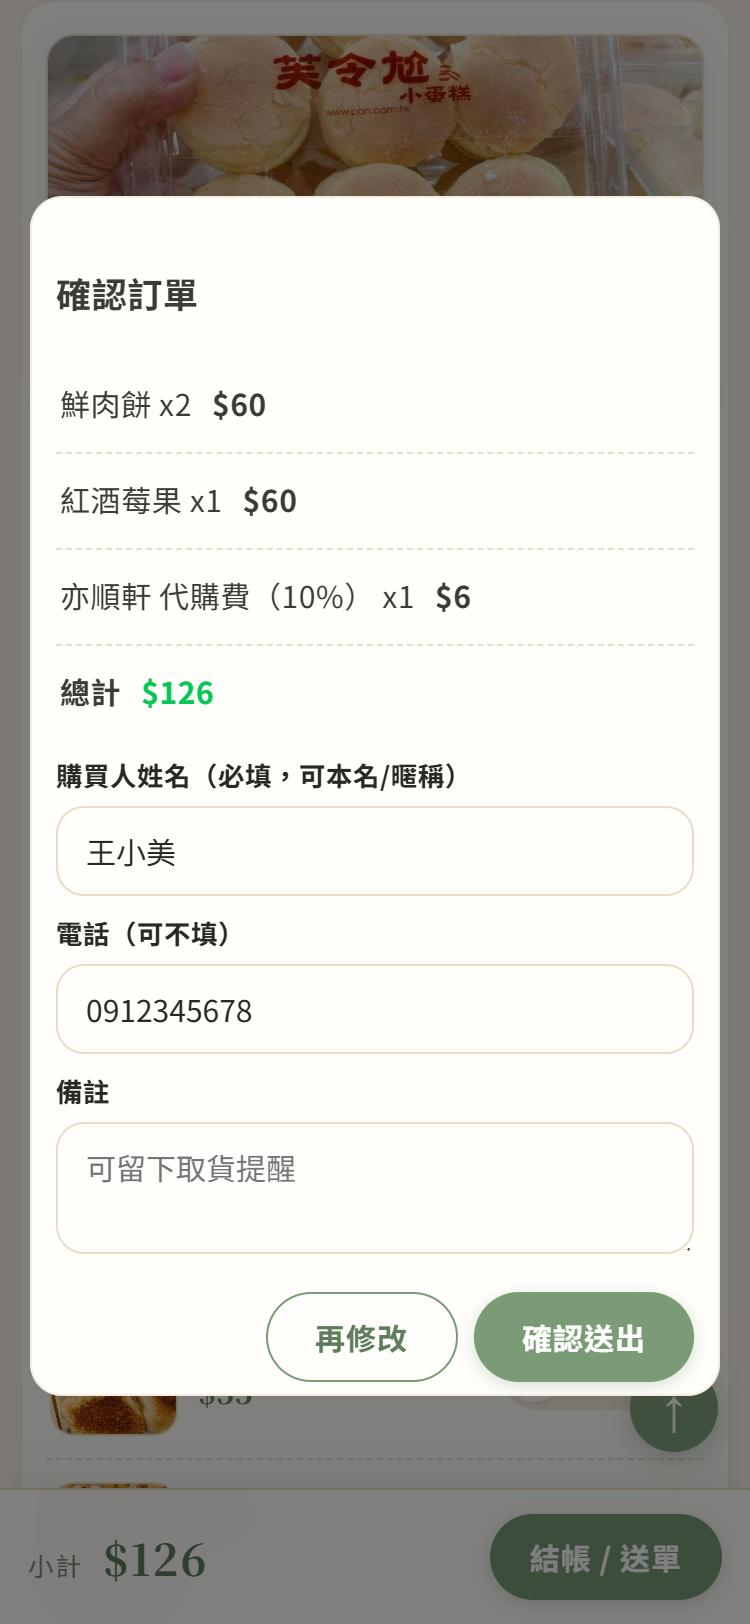
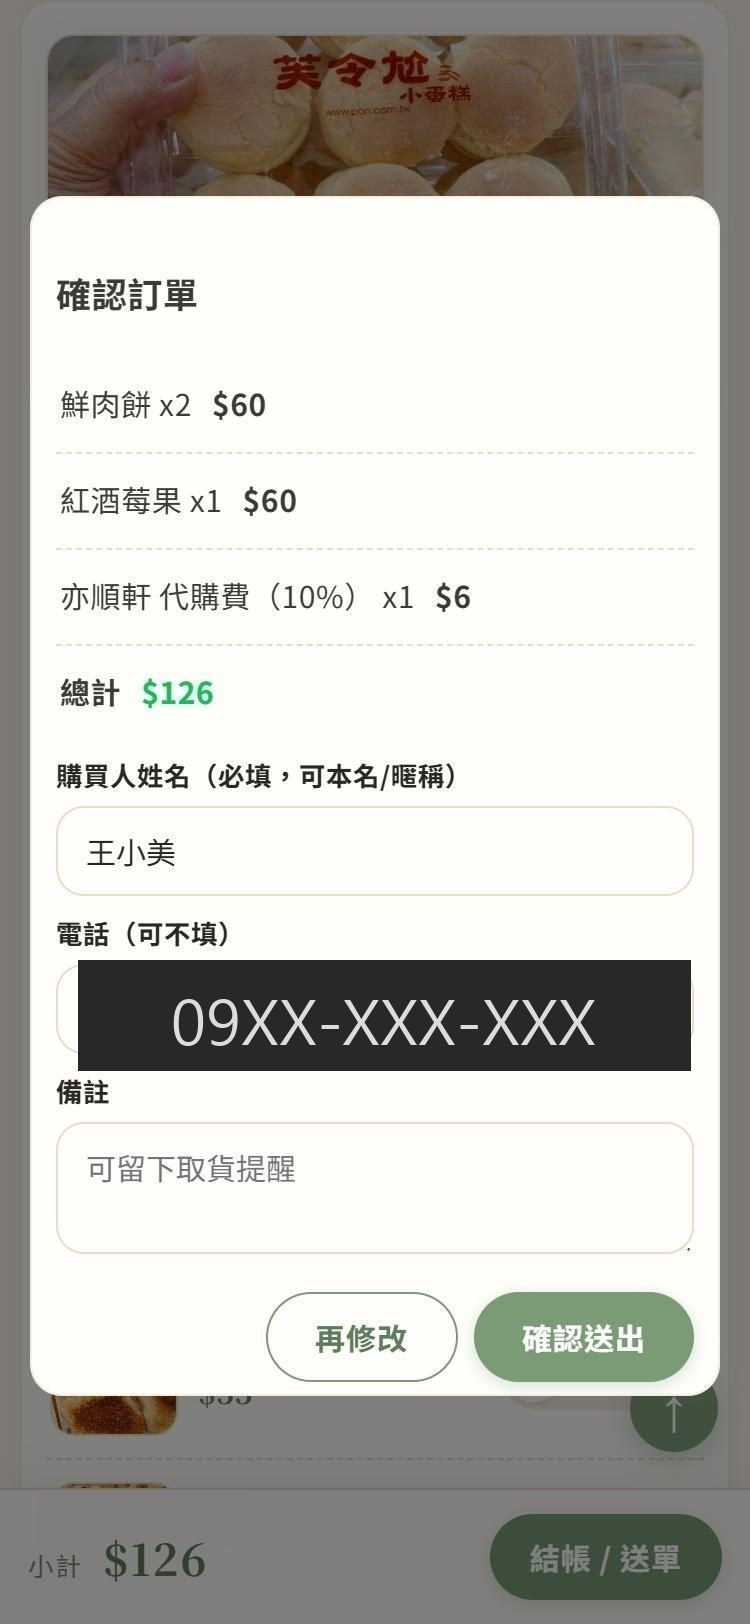
DEMO 截圖電話去敏｜用 09XX-XXX-XXX 遮罩
- 05 結帳畫面：覆蓋電話輸入框的 0912345678
- 07 後台訂單：覆蓋 eva 和 KENT111 兩筆電話
- 08 本週報表：覆蓋兩筆客人電話
- 用 Python PIL 腳本處理，可重跑調整位置
- 遮罩是深灰底 + 「09XX-XXX-XXX」白字，一看就知道是電話但看不到真號

Changed region(s): [[0.092, 0.585, 0.92, 0.6773], [0.184, 0.4002, 0.276, 0.431]]

diff --git a/demo-shots/redact.py b/demo-shots/redact.py
@@ -1,0 +1,55 @@
+"""把 demo 截圖裡的電話塗黑（避免暴露測試號碼）"""
+from PIL import Image, ImageDraw, ImageFont, ImageFilter
+import os
+
+BASE = os.path.dirname(__file__)
+
+def redact_rect(img, boxes, color=(40, 40, 40), label='09XX-XXX-XXX'):
+    """在指定位置畫深灰底色塊 + 遮罩字"""
+    draw = ImageDraw.Draw(img)
+    for box in boxes:
+        x1, y1, x2, y2 = box
+        draw.rectangle([x1, y1, x2, y2], fill=color)
+        # 寫遮罩字
+        try:
+            # 字型大小依高度估
+            h = y2 - y1
+            try:
+                font = ImageFont.truetype('msjh.ttc', int(h * 0.55))
+            except Exception:
+                font = ImageFont.load_default()
+            bbox = draw.textbbox((0, 0), label, font=font)
+            tw = bbox[2] - bbox[0]
+            th = bbox[3] - bbox[1]
+            tx = x1 + (x2 - x1 - tw) // 2
+            ty = y1 + (y2 - y1 - th) // 2 - int(h * 0.1)
+            draw.text((tx, ty), label, fill=(220, 220, 220), font=font)
+        except Exception as e:
+            print('skip label:', e)
+    return img
+
+def process(fn, boxes, label='09XX-XXX-XXX'):
+    path = os.path.join(BASE, fn)
+    img = Image.open(path).convert('RGB')
+    img = redact_rect(img, boxes, label=label)
+    img.save(path, 'JPEG', quality=88)
+    print(f'[OK] {fn} - {len(boxes)} 塊')
+
+# 05 結帳 — 電話輸入框的 0912345678
+process('05-checkout.jpg', [
+    (78, 960, 690, 1070),
+])
+
+# 07 後台訂單 — eva / KENT111 兩個電話
+process('07-admin-orders.jpg', [
+    (135, 625, 430, 700),    # eva 電話
+    (210, 1200, 525, 1285),  # KENT111 電話
+])
+
+# 08 本週報表 — KENT111 / eva 兩個電話
+process('08-admin-report.jpg', [
+    (260, 700, 620, 770),   # KENT111
+    (170, 1060, 500, 1135), # eva
+])
+
+print('全部處理完成')
